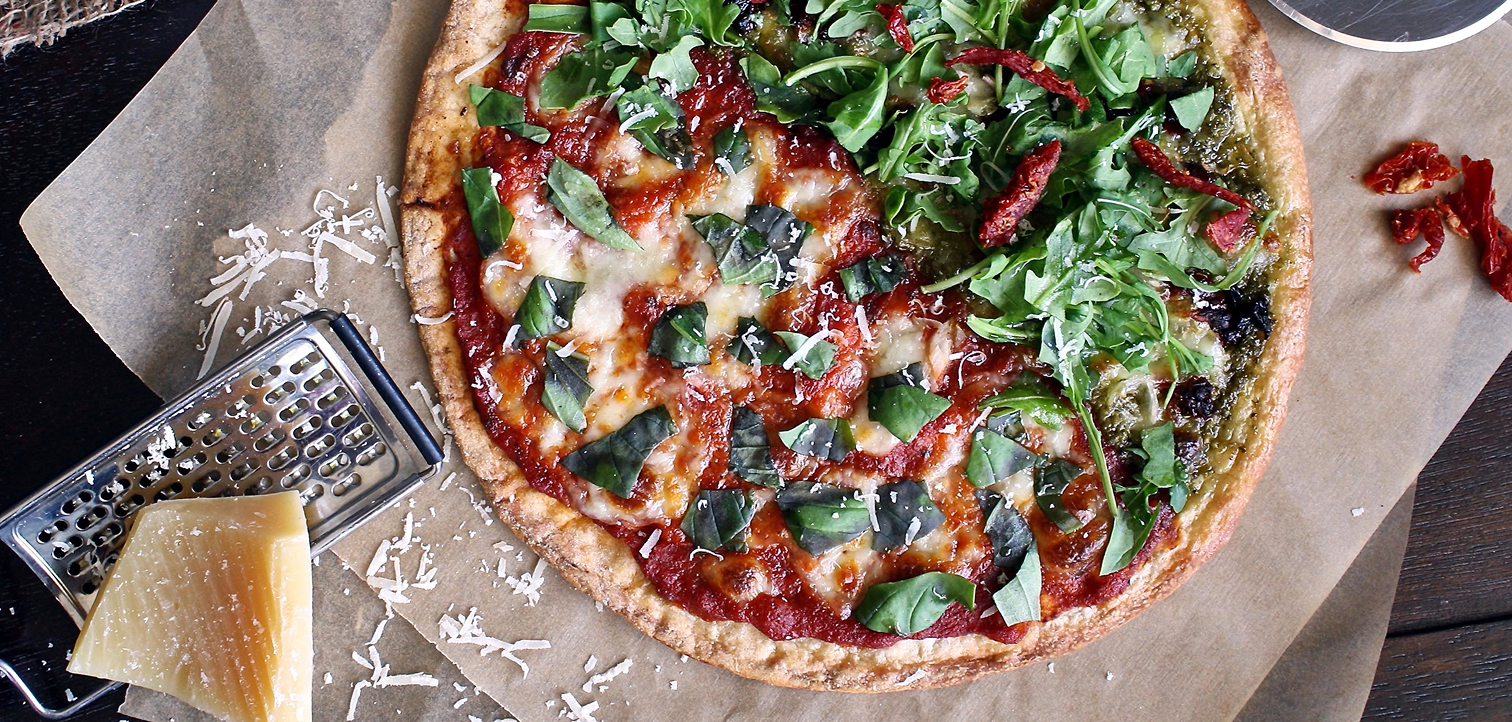
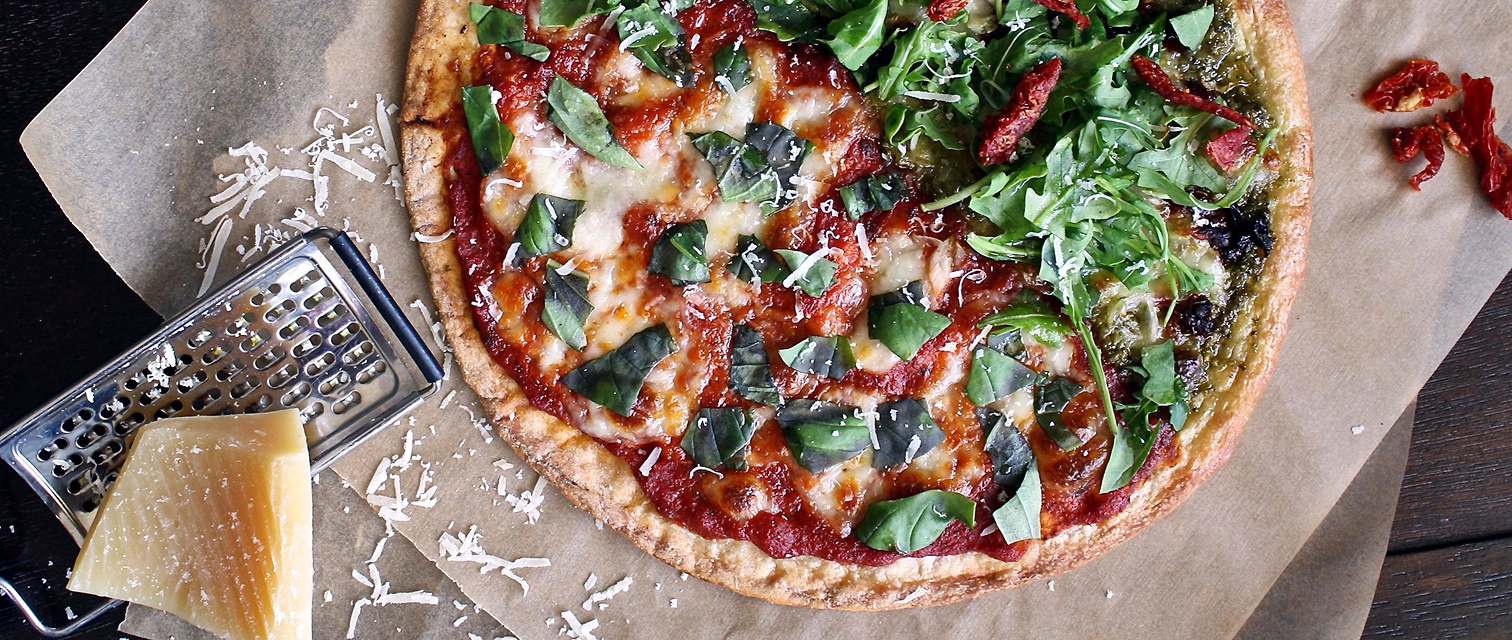
Add responsive design

diff --git a/src/pages/RecipeDetail.tsx b/src/pages/RecipeDetail.tsx
@@ -33,7 +33,7 @@ function RecipeDetail() {
       let cleanStep = step.trim();
       if (!cleanStep) return;
 
-      cleanStep = cleanStep.replace(/^(step\s*\d+[:.-]?|\d+[:.-]?|•)\s*/i, "");
+      cleanStep = cleanStep.replace(/^(step\s*\d+[:.-]?|\d+[:.)-]?|•)\s*/i, "");
 
       if (cleanStep.length > 2) {
         formattedSteps.push(cleanStep);
@@ -59,9 +59,13 @@ function RecipeDetail() {
   if (error) return <p className="error-text">{error}</p>;
   if (!recipe)
     return (
-      <div className="flex flex-col justify-center items-center gap-8 section">
-        <p className="text-8xl text-dark-red font-bold">Recipe Not Found</p>
-        <p>Oops! The recipe you're looking for could not be found.</p>
+      <div className="flex flex-col justify-center items-center gap-8 section-small lg:section">
+        <p className="text-6xl lg:text-8xl text-center text-dark-red font-bold">
+          Recipe Not Found
+        </p>
+        <p className="mb-24 text-center">
+          Oops! The recipe you're looking for could not be found.
+        </p>
 
         <Button
           label="Go to Home Page"
@@ -73,34 +77,40 @@ function RecipeDetail() {
 
   return (
     <div>
-      <div className="flex items-center gap-12 bg-green">
-        <img src={recipe.thumbnail} alt={recipe.name} />
+      <div className="flex flex-col lg:flex-row items-start lg:items-center lg:gap-12 bg-green">
+        <img
+          src={recipe.thumbnail}
+          alt={recipe.name}
+          className="w-full lg:w-md xl:w-164 aspect-square object-cover lg:rounded-r-2xl shrink-0"
+        />
 
-        <div className="pr-24">
-          <h1 className="heading mb-6 text-yellow">{recipe.name}</h1>
-          <p className="text-lg text-white">
+        <div className="p-8 lg:pr-24">
+          <h1 className="heading-small lg:heading lg:mb-6 text-yellow">
+            {recipe.name}
+          </h1>
+          <p className="text-md lg:text-lg text-white">
             <span className="flex items-center gap-4 my-2">
-              <img src={category} alt="Category" />
+              <img className="w-6 lg:w-8" src={category} alt="Category" />
               {recipe.category}
             </span>
             {recipe.area && (
               <span className="flex items-center gap-4 my-2">
-                <img src={area} alt="Area" />
+                <img className="w-6 lg:w-8" src={area} alt="Area" />
                 {recipe.area}
               </span>
             )}
             <span className="flex items-center gap-4 my-2">
-              <img src={country} alt="Country" />
+              <img className="w-6 lg:w-8" src={country} alt="Country" />
               {recipe.country}
             </span>
           </p>
         </div>
       </div>
 
-      <div className="section">
-        <h2>Ingredients</h2>
+      <div className="section-small lg:section">
+        <h2 className="heading2-small lg:heading2">Ingredients</h2>
 
-        <div className="grid grid-cols-3 gap-4 p-12 bg-green text-white">
+        <div className="grid grid-cols-1 md:grid-cols-2 lg:grid-cols-3 gap-4 p-8 lg:p-12 bg-green text-white">
           {recipe.ingredients.map(({ name, measure }, index) => (
             <p className="flex items-center gap-4" key={index}>
               <img className="w-6" src={ingredient} alt="" />
@@ -110,8 +120,8 @@ function RecipeDetail() {
         </div>
       </div>
 
-      <div className="section">
-        <h2>Instructions</h2>
+      <div className="section-small lg:section">
+        <h2 className="heading2-small lg:heading2">Instructions</h2>
 
         <div>
           {parseInstructions(recipe.instructions).map((step, index) => (
@@ -119,7 +129,7 @@ function RecipeDetail() {
               key={index}
               className="mb-10 pb-8 border-b-[3px] border-red-orange"
             >
-              <span className="block mb-2.5 text-2xl font-bold">
+              <span className="block mb-2.5 text-xl lg:text-2xl font-bold">
                 Step {index + 1}
               </span>
               {step}
@@ -129,16 +139,20 @@ function RecipeDetail() {
       </div>
 
       {videoId && (
-        <div className="section bg-red-orange">
-          <h2>Watch Video Tutorial</h2>
-          <YouTube
-            videoId={videoId}
-            opts={{
-              width: "100%",
-              height: "600",
-              playerVars: { autoplay: 0 },
-            }}
-          />
+        <div className="section-small lg:section bg-red-orange">
+          <h2 className="heading2-small lg:heading2">Watch Video Tutorial</h2>
+          <div className="w-full max-w-4xl mx-auto aspect-video">
+            <YouTube
+              videoId={videoId}
+              className="w-full h-full"
+              iframeClassName="w-full h-full"
+              opts={{
+                width: "100%",
+                height: "100%",
+                playerVars: { autoplay: 0 },
+              }}
+            />
+          </div>
         </div>
       )}
     </div>

diff --git a/src/pages/About.tsx b/src/pages/About.tsx
@@ -5,14 +5,20 @@ import about2 from "../assets/about2.png";
 function About() {
   return (
     <div>
-      <div className="section relative bg-green">
-        <h1 className="heading pb-16 text-center text-white">About Us</h1>
-        <img className="absolute bottom-0" src={header} alt="" />
+      <div className="section-small lg:section relative bg-green">
+        <h1 className="heading-small lg:heading lg:pb-16 text-center text-white">
+          About Us
+        </h1>
+        <img
+          className="absolute bottom-0 left-1/2 -translate-x-1/2 w-full max-w-6xl object-contain"
+          src={header}
+          alt=""
+        />
       </div>
 
-      <div className="section flex gap-16 items-center">
-        <img src={about1} alt="" />
-        <div className="flex flex-col gap-8 text-xl">
+      <div className="section-small lg:section flex flex-col lg:flex-row gap-8 lg:gap-16 items-center">
+        <img className="w-32 lg:w-68" src={about1} alt="" />
+        <div className="flex flex-col gap-8 text-md lg:text-xl text-center lg:text-left">
           <p>
             FindMyRecipe is a recipe discovery platform designed to make cooking
             easier and more enjoyable.
@@ -28,29 +34,33 @@ function About() {
         </div>
       </div>
 
-      <div className="section">
-        <h2>Features</h2>
+      <div className="section-small lg:section">
+        <h2 className="heading2-small lg:heading2">Features</h2>
 
-        <div className="grid grid-cols-3 gap-8">
-          <div className="p-6 min-h-54 border-4 border-green">
-            <p className="text-xl font-bold">Search by name</p>
+        <div className="grid grid-cols-1 lg:grid-cols-3 gap-8">
+          <div className="p-6 min-h-48 lg:min-h-54 border-4 border-green">
+            <p className="text-lg lg:text-xl font-bold">Search by name</p>
             <hr className="border-none h-0.5 my-4 bg-green" />
-            <p className="text-base">Type any dish and find it instantly.</p>
+            <p className="text-sm lg:text-base">
+              Type any dish and find it instantly.
+            </p>
           </div>
 
-          <div className="p-6 min-h-54 border-4 border-green">
-            <p className="text-xl font-bold">Surprise me!</p>
+          <div className="p-6 min-h-48 lg:min-h-54 border-4 border-green">
+            <p className="text-lg lg:text-xl font-bold">Surprise me!</p>
             <hr className="border-none h-0.5 my-4 bg-green" />
-            <p className="text-base">
+            <p className="text-sm lg:text-base">
               Feeling indecisive? Get a random recipe pulled fresh from
               thousands of dishes.
             </p>
           </div>
 
-          <div className="p-6 min-h-54 border-4 border-green">
-            <p className="text-xl font-bold">Detailed recipe pages</p>
+          <div className="p-6 min-h-48 lg:min-h-54 border-4 border-green">
+            <p className="text-lg lg:text-xl font-bold">
+              Detailed recipe pages
+            </p>
             <hr className="border-none h-0.5 my-4 bg-green" />
-            <p className="text-base">
+            <p className="text-sm lg:text-base">
               Every dish comes with a full list of ingredients, step-by-step
               instructions, and even a YouTube video link for visual guidance
             </p>
@@ -58,17 +68,18 @@ function About() {
         </div>
       </div>
 
-      <div className="section bg-red-orange">
+      <div className="section-small lg:section bg-red-orange">
         <div className="flex flex-col items-center justify-center gap-1.5">
-          <img src={about2} alt="" />
-          <h2 className="text-white">Data Source</h2>
+          <img className="w-32 lg:w-56" src={about2} alt="" />
+          <h2 className="heading2-small lg:heading2 text-white">Data Source</h2>
         </div>
-        <p className="mt-8 text-xl text-center text-white">
+        <p className="mt-8 text-md lg:text-xl text-center text-white">
           All recipe data is provided by{" "}
           <a
             className="text-yellow font-bold"
             href="https://www.themealdb.com/"
             target="_blank"
+            rel="noopener noreferrer"
           >
             TheMealDB
           </a>

diff --git a/src/pages/Home.tsx b/src/pages/Home.tsx
@@ -42,17 +42,20 @@ function Home() {
 
   return (
     <div>
-      <div className="relative overflow-hidden">
+      <div className="relative min-h-140 w-full flex items-end lg:items-center overflow-hidden">
         <img
-          className="h-screen w-full bg-hero-pattern bg-cover bg-center bg-no-repeat"
+          className="absolute inset-0 w-full h-full object-cover object-center"
           src={hero}
-          alt=""
+          alt="Hero Background"
         />
-        <div className="absolute inset-y-0 left-24 mt-auto px-8 py-12 max-w-md h-min flex flex-col justify-start items-start gap-3.5 text-white bg-green/80">
+
+        <div className="absolute bottom-0 z-10 md:ml-8 lg:ml-24 h-full md:h-min w-full md:max-w-lg p-8 lg:p-12 flex flex-col justify-start items-start gap-4 sm:gap-6 text-white bg-green/90">
           <h1 className="heading">
-            Cook <span className="text-yellow">Smarter</span>, <br /> Not Harder
+            Cook <span className="text-yellow">Smarter</span>, <br />
+            Not Harder
           </h1>
-          <p className="font-body mb-4">
+
+          <p className="font-body text-sm sm:text-base mb-8 lg:mb-12">
             FindMyRecipe gives you total control. Narrow down options by
             cuisine, diet, and meal type, or shake things up with a surprise
             random pick. Once you find the one, dive into a dedicated recipe
@@ -67,16 +70,18 @@ function Home() {
         </div>
       </div>
 
-      <div className="section" ref={recipesRef}>
-        <h2>Browse through thousands of recipes</h2>
+      <div className="section-small lg:section" ref={recipesRef}>
+        <h2 className="heading2-small lg:heading2">
+          Browse through thousands of recipes
+        </h2>
 
         <SearchBar search={handleSearch} />
 
-        <div className="flex flex-wrap justify-between items-center gap-8 mt-16">
-          {isLoading && <LoadingSpinner />}
-          {error && <p className="error-text">{error}</p>}
-          {!isLoading &&
-            randomRecipes.map((recipe) => (
+        {isLoading && <LoadingSpinner />}
+        {error && <p className="error-text">{error}</p>}
+        {!isLoading && (
+          <div className="grid grid-cols-1 md:grid-cols-2 lg:grid-cols-3 gap-2 md:gap-4 xl:gap-8 mt-16">
+            {randomRecipes.map((recipe) => (
               <RecipeCard
                 key={recipe.id}
                 id={recipe.id}
@@ -85,16 +90,17 @@ function Home() {
                 category={recipe.category}
               />
             ))}
-        </div>
+          </div>
+        )}
       </div>
 
-      <div className="section flex flex-col justify-center items-center bg-red-orange text-white">
-        <img className="w-36" src={random} alt="" />
-        <p className="text-5xl text-center mb-6">
+      <div className="section-small lg:section flex flex-col justify-center items-center bg-red-orange text-white">
+        <img className="w-24 lg:w-36" src={random} alt="" />
+        <p className="text-3xl lg:text-5xl font-bold text-center mb-6">
           Haven't decided yet? <br />
           <span className="text-yellow">Let us surprise you!</span>
         </p>
-        <p className="w-[50%] text-center mb-24">
+        <p className="w-full lg:w-[50%] text-center mb-24">
           Feeling adventurous? Click the button and let fate pick your next
           meal. From quick breakfasts to decadent desserts, your next favorite
           dish is just one click away.

diff --git a/src/components/RecipeCard.tsx b/src/components/RecipeCard.tsx
@@ -14,16 +14,16 @@ function RecipeCard({
   return (
     <Link
       to={`/recipe/${id}`}
-      className="flex items-center md:items-start md:flex-col border-4 border-red-orange md:min-h-108 hover:border-green transition-colors duration-300"
+      className="flex flex-col items-start border-4 border-red-orange md:min-h-108 hover:border-green transition-colors duration-300"
     >
       <img
-        className="w-[50%] md:w-full md:h-64 object-cover object-center"
+        className="w-full md:h-64 object-cover object-center"
         src={thumbnail}
         alt={name}
       />
       <p className="flex flex-col p-6">
         <span className="text-gray-400">{category}</span>
-        <span className="text-lg lg:text-2xl font-bold">{name}</span>
+        <span className="text-lg sm:text-2xl font-bold">{name}</span>
       </p>
     </Link>
   );

diff --git a/src/pages/NotFound.tsx b/src/pages/NotFound.tsx
@@ -5,10 +5,14 @@ function NotFound() {
   const navigate = useNavigate();
 
   return (
-    <div className="flex flex-col justify-center items-center gap-8 section">
-      <h1 className="text-8xl text-dark-red font-bold">Page Not Found</h1>
+    <div className="flex flex-col justify-center items-center gap-8 section-small lg:section">
+      <h1 className="text-6xl lg:text-8xl text-center text-dark-red font-bold">
+        Page Not Found
+      </h1>
 
-      <p className="mb-24">Oops! The page you requested could not be found.</p>
+      <p className="mb-24 text-center">
+        Oops! The page you requested could not be found.
+      </p>
 
       <Button
         label="Go to Home Page"

diff --git a/src/index.css b/src/index.css
@@ -11,7 +11,7 @@
   --font-body: "Roboto Mono", sans-serif;
 }
 
-* {
+body {
   font-family: var(--font-body);
 }
 
@@ -19,17 +19,30 @@ html {
   scroll-behavior: smooth;
 }
 
-.heading {
+@utility heading {
   font-family: var(--font-heading);
   font-size: 4rem;
   line-height: 4rem;
 }
 
-h2 {
+@utility heading-small {
+  font-family: var(--font-heading);
+  font-size: 2.5rem;
+  line-height: 3rem;
+}
+
+@utility heading2 {
   font-size: 1.75rem;
   font-weight: bold;
   text-align: center;
   margin-bottom: 2.25rem;
+}
+
+@utility heading2-small {
+  font-size: 1.5rem;
+  font-weight: bold;
+  text-align: center;
+  margin-bottom: 2rem;
 }
 
 @utility button-square {
